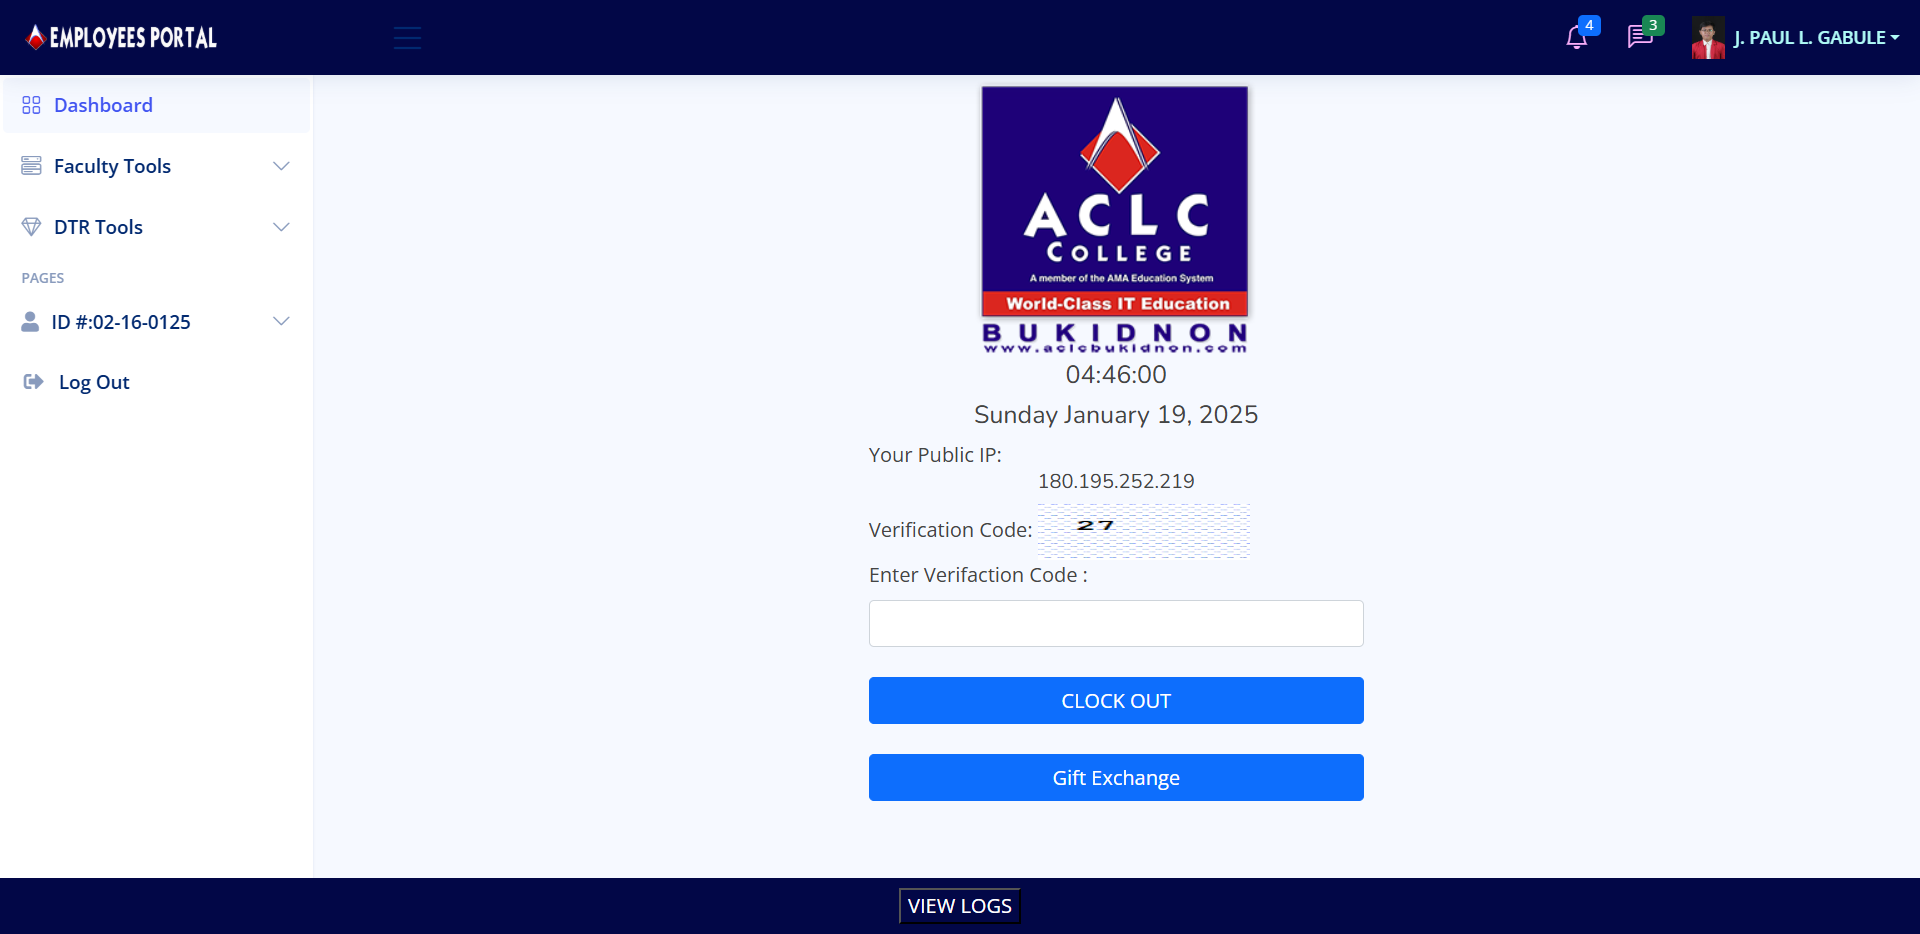
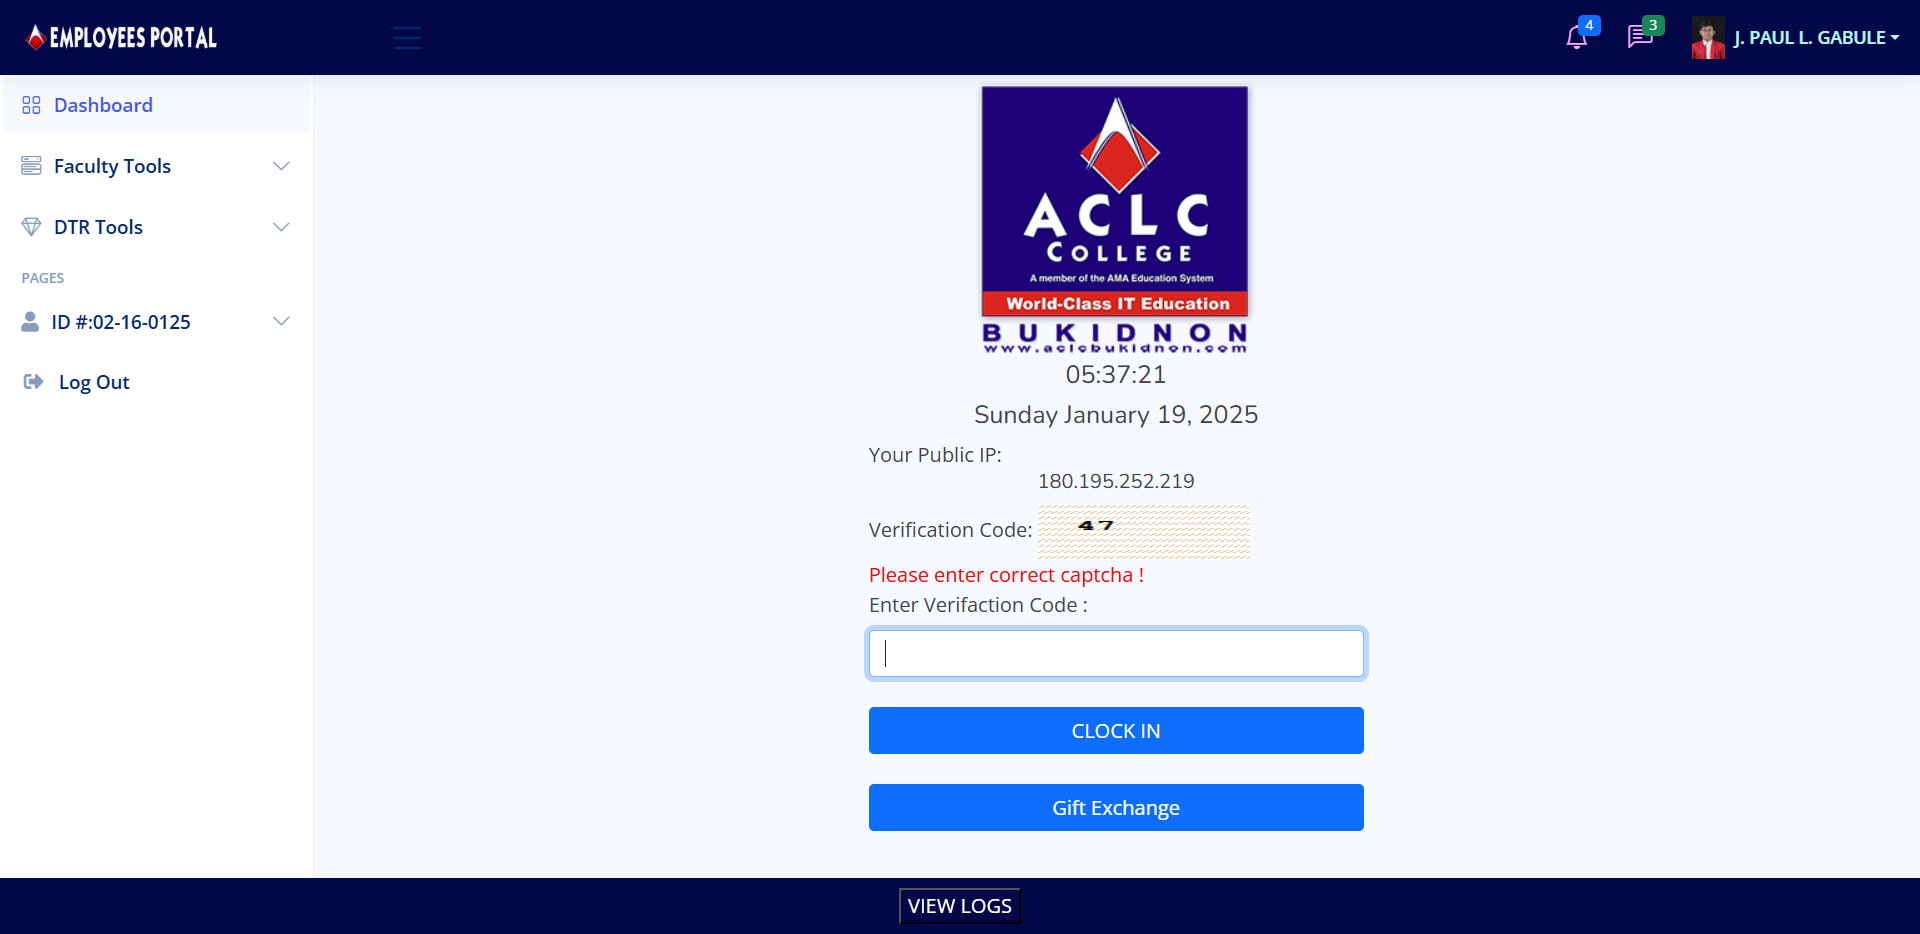
automation currently done

Changed region(s): [[0.4375, 0.5278, 0.7188, 0.9004], [0.5625, 0.3726, 0.625, 0.4347]]

diff --git a/index.js b/index.js
@@ -1,9 +1,10 @@
 const moment = require("moment");
 const puppeteer = require("puppeteer");
-const Tesseract = require("tesseract.js");
-const {setIntervalAsync} = require("set-interval-async/fixed");
+const { createWorker } = require("tesseract.js");
+const { setIntervalAsync } = require("set-interval-async/fixed");
 const schedule = require('./subjects.json');
 let prevTime = '';
+let browser = '';
 
 async function portalScrap() {
   async function main() {
@@ -15,35 +16,29 @@ async function portalScrap() {
         if (scheduleDay === today) {
           const foundSchedule = entries.find(entry => entry.time === currentTime)
           if (foundSchedule) {
-            console.log('GETTING')
             await proceed(foundSchedule.type, currentTime);
             console.table([foundSchedule])
           }
-        } else {
-          console.log('----------');
         }
       }
     }
   }
 
-  async function delay(ms) {
-    return new Promise(resolve => setTimeout(resolve, ms));
-  }
-
   async function proceed(sendingType, currentTime) {
     console.log(`[Current Time]: ${currentTime} Let's start processing...`);
     console.log(`[Current Doing]: ${sendingType}`);
-    const browser = await puppeteer.launch({
-      headless: false,
-      defaultViewport: null,
-      args: ['--start-maximized']
-    });
+
+    if (!browser) {
+      browser = await puppeteer.launch({
+        headless: 'new',
+        defaultViewport: null,
+        args: ['--start-maximized']
+      });
+    }
 
     const page = await browser.newPage();
-    page.setDefaultTimeout(30000);
 
     try {
-
       console.log("Phase 1: Logging in...");
       await page.goto("https://www.aclcbukidnon.com/Employees", {
         waitUntil: "networkidle2"
@@ -54,8 +49,7 @@ async function portalScrap() {
       await page.type("[id=ContentPlaceHolder1_txtPassword]", "5h*MpJU3Kz7Aayhs");
       await page.click("[id=ContentPlaceHolder1_BtnLogin]");
       await page.waitForNavigation({
-        waitUntil: "networkidle2",
-        timeout: 10000
+        waitUntil: "networkidle2"
       });
 
       // Phase 2: Clock In/Out with CAPTCHA
@@ -64,63 +58,103 @@ async function portalScrap() {
         waitUntil: "networkidle2"
       });
 
-      // Take screenshot before CAPTCHA handling
-      await page.screenshot({path: "before_captcha.png"});
+      const signalTries = 5;
+      let signalAttempt = 0;
+      let signalSuccess = false;
+      while (signalAttempt <= signalTries && !signalSuccess) {
+        const maxRetries = 200;
+        let attempt = 0;
+        let success = false;
 
-      const maxRetries = 20;
-      let attempt = 0;
-      let success = false;
+        while (attempt < maxRetries && !success) {
+          attempt++;
+          const captchaSelector = '#ContentPlaceHolder1_Image2';
+          try {
+            const element = await page.waitForSelector(captchaSelector, { visible: true, timeout: 10000 });
+            const captchaImage = await page.$(captchaSelector);
+            const screenshot = await captchaImage.screenshot({
+              encoding: 'binary'
+            });  
+            const worker = await createWorker('eng');
+            const { data: { text } } = await worker.recognize(
+              screenshot,
+              "eng",
+              {
+                tessedit_char_whitelist: '0123456789ABCDEFGHIJKLMNOPQRSTUVWXYZabcdefghijklmnopqrstuvwxyz',
+                psm: 7
+              }
+            );
+            
+            let captchaText = text.replace(/[^0-9a-zA-Z]/g, "").trim();
+            captchaText = captchaText.substring(0, 2);
+            console.log('Detected CAPTCHA:', captchaText);
 
-      while (attempt < maxRetries && !success) {
-        attempt++;
-        console.log(`CAPTCHA attempt ${attempt} of ${maxRetries}`);
+            await element.dispose();
+            await worker.terminate();
 
-        const captchaSelector = '#ContentPlaceHolder1_Image2';
-        await page.waitForSelector(captchaSelector, {visible: true, timeout: 5000});
-        const captchaImage = await page.$(captchaSelector);
-        const screenshot = await captchaImage.screenshot({
-          encoding: 'binary'
-        });
+            if(!captchaText) {
+              console.log("CAPTCHA extraction failed. Retrying...");
+              await page.reload();
+            }
 
-        // 4. Use Tesseract to do OCR on the captcha
-        const {data: {text}} = await Tesseract.recognize(
-          screenshot,
-          "eng",
-          {
-            tessedit_char_whitelist: '0123456789ABCDEFGHIJKLMNOPQRSTUVWXYZabcdefghijklmnopqrstuvwxyz',
-            psm: 7
+            if (captchaText.length !== 0) {
+              // await page.type("[id=ContentPlaceHolder1_txtEmployyeID]", "username");
+              await page.type("[id=ContentPlaceHolder1_txtVerificationCode]", captchaText);
+              await page.click("[id=ContentPlaceHolder1_btnClock]");
+              await page.screenshot({ path: "CLOCKIN_CLOCKOUT.png" });
+              await new Promise(resolve => setTimeout(resolve, 2000));
+
+              // Check if we got an error message
+              const errorMessage = await page.$eval(
+                "#ContentPlaceHolder1_lblCaptchaMessage",
+                el => el.innerText
+              ).catch(() => '');
+
+              if (errorMessage === 'You have entered correct captch code') {
+                success = true;
+                signalSuccess = true;
+                console.log("CAPTCHA verification successful");
+                break;
+              }
+            }
+          } catch (error) {
+            console.log("CAPTCHA processing error:", error.message);
           }
-        );
+        }
 
-        let captchaText = text.replace(/[^0-9a-zA-Z]/g, "").trim();
-
-        // Ensure we only get 2 characters
-        captchaText = captchaText.substring(0, 2);
-
-        console.log('Detected CAPTCHA:', captchaText);
-
-        if (captchaText) {
-          // 5. Type the recognized text into the verification code input
-          // Adjust the selector if needed
-          await page.type("#ContentPlaceHolder1_txtVerificationCode", captchaText);
-          await page.click("[id=ContentPlaceHolder1_btnClock]");
-          await page.screenshot({path: "CLOCKIN_CLOCKOUT.png"});
-          await delay(2000);
+        if (!success) {
+          console.log("Retrying CAPTCHA...");
+          await new Promise(resolve => setTimeout(resolve, 10000));
+          await page.reload();
         }
       }
-
+      if (!signalSuccess) {
+        console.log("Failed to verify CAPTCHA after multiple attempts.");
+      }
     } catch (error) {
-      await page.screenshot({path: "error_state.png"});
-      console.log(error.message);
-      process.exit();
+      console.log("Error during processing:", error.message);
     } finally {
-      // await browser.close();
-      await page.screenshot({path: "after_clock.png"});
+      await page.close();
     }
   }
 
   await main();
 }
+
+
+// Cleanup function to ensure browser is closed when script exits
+async function cleanup() {
+  if (browser) {
+    await browser.close();
+    browser = null;
+  }
+  process.exit();
+}
+
+// Handle script termination
+process.on('SIGINT', cleanup);
+process.on('SIGTERM', cleanup);
+process.on('exit', cleanup);
 
 setIntervalAsync(async () => {
   await portalScrap();
